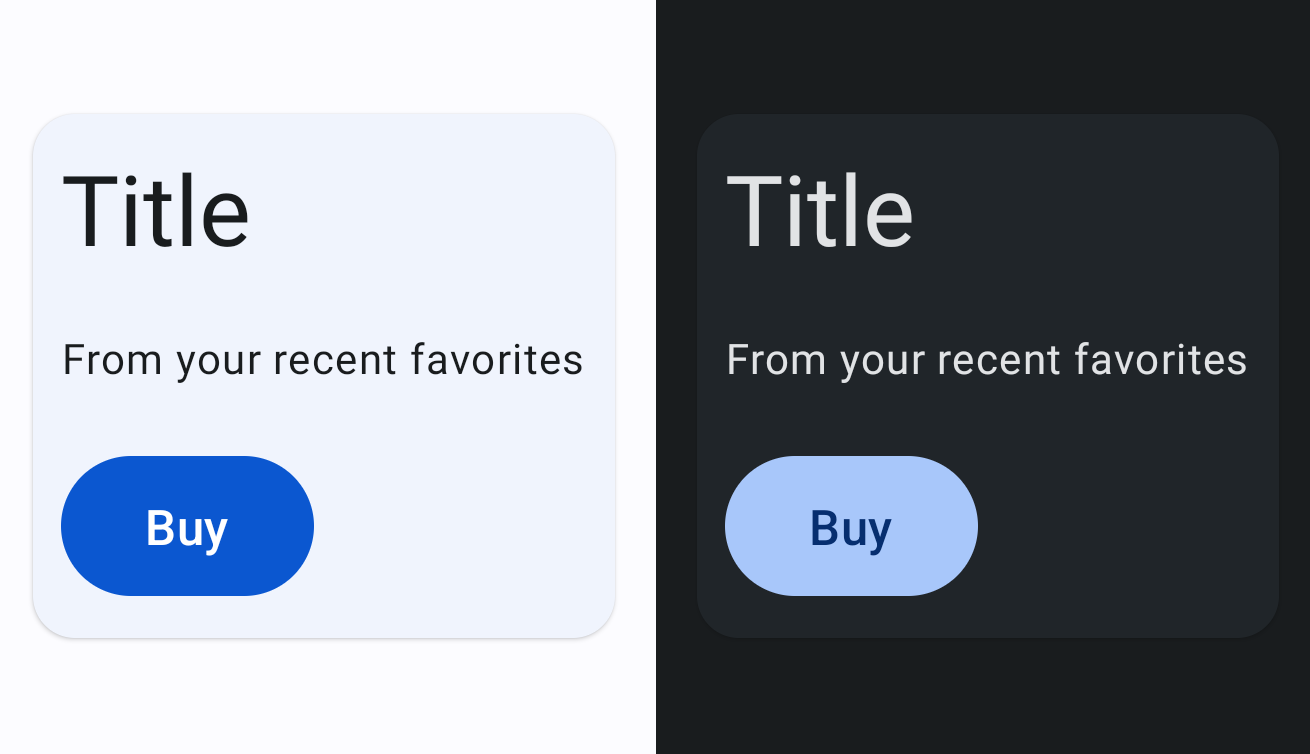
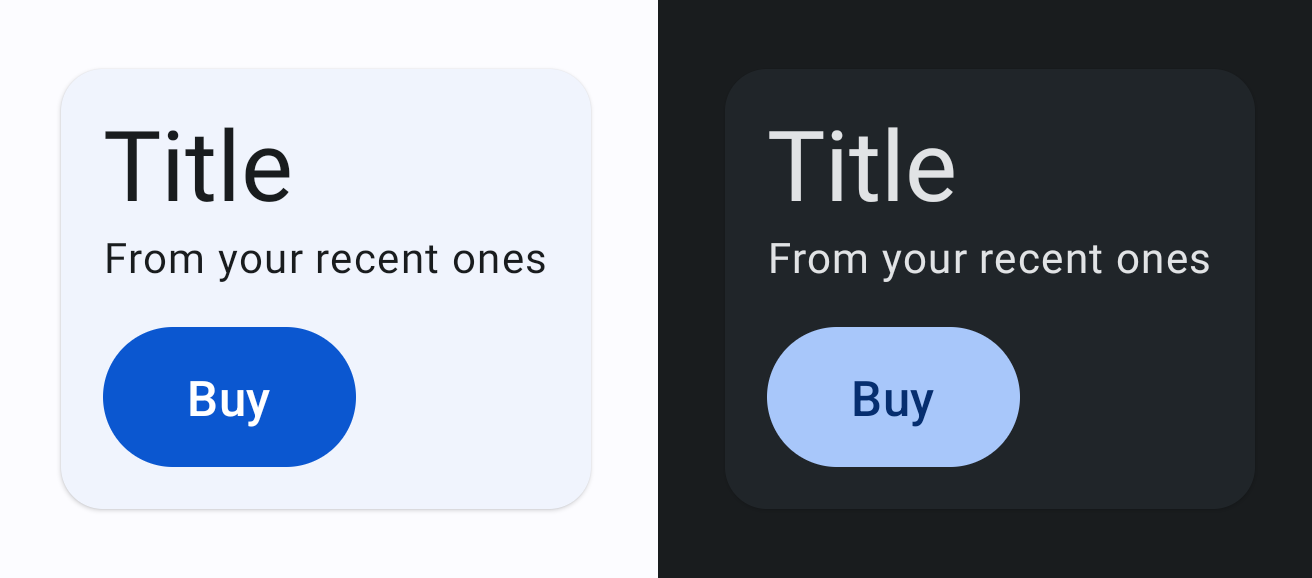
Fix Elevated Card

diff --git a/app/src/main/java/com/ivyapps/material3showcase/component/cards/ElevatedCard.kt b/app/src/main/java/com/ivyapps/material3showcase/component/cards/ElevatedCard.kt
@@ -1,5 +1,8 @@
 package com.ivyapps.material3showcase.component.cards
 
+import androidx.compose.foundation.layout.Column
+import androidx.compose.foundation.layout.Spacer
+import androidx.compose.foundation.layout.height
 import androidx.compose.foundation.layout.padding
 import androidx.compose.foundation.shape.RoundedCornerShape
 import androidx.compose.material3.Button
@@ -14,8 +17,8 @@ import com.airbnb.android.showkase.annotation.ShowkaseComposable
 import com.ivyapps.material3showcase.component.ComponentPreview
 import com.ivyapps.material3showcase.component.ShowcasePreview
 
-private const val width = 420
-private const val height = 220
+private const val width = 520
+private const val height = 170
 
 @ComponentPreview
 @ShowkaseComposable(
@@ -28,25 +31,28 @@ private const val height = 220
 fun ElevatedCardDefault() {
     ShowcasePreview(width = width, height = height) {
         ElevatedCard {
-            Text(
-                modifier = Modifier.padding(8.dp),
-                text = "Title",
-                style = MaterialTheme.typography.headlineMedium
-            )
-
-            Text(
-                modifier = Modifier.padding(8.dp),
-                text = "From your recent favorites",
-                style = MaterialTheme.typography.bodySmall
-            )
-
-            Button(
-                modifier = Modifier.padding(8.dp),
-                onClick = {
-                    /* Do something! */
-                }
+            Column(
+                modifier = Modifier.padding(horizontal = 12.dp, vertical = 8.dp)
             ) {
-                Text("Buy")
+                Text(
+                    text = "Title",
+                    style = MaterialTheme.typography.headlineMedium
+                )
+
+                Text(
+                    text = "From your recent ones",
+                    style = MaterialTheme.typography.bodySmall
+                )
+
+                Spacer(modifier = Modifier.height(8.dp))
+
+                Button(
+                    onClick = {
+                        /* Do something! */
+                    }
+                ) {
+                    Text("Buy")
+                }
             }
         }
     }
@@ -73,25 +79,28 @@ fun ElevatedCardCustom() {
             ),
             elevation = CardDefaults.cardElevation(1.dp)
         ) {
-            Text(
-                modifier = Modifier.padding(8.dp),
-                text = "Title",
-                style = MaterialTheme.typography.headlineMedium
-            )
-
-            Text(
-                modifier = Modifier.padding(8.dp),
-                text = "From your recent favorites",
-                style = MaterialTheme.typography.bodySmall
-            )
-
-            Button(
-                modifier = Modifier.padding(8.dp),
-                onClick = {
-                    /* Do something! */
-                }
+            Column(
+                modifier = Modifier.padding(horizontal = 12.dp, vertical = 8.dp)
             ) {
-                Text("Buy")
+                Text(
+                    text = "Title",
+                    style = MaterialTheme.typography.headlineMedium
+                )
+
+                Text(
+                    text = "From your recent ones",
+                    style = MaterialTheme.typography.bodySmall
+                )
+
+                Spacer(modifier = Modifier.height(8.dp))
+
+                Button(
+                    onClick = {
+                        /* Do something! */
+                    }
+                ) {
+                    Text("Buy")
+                }
             }
         }
     }

diff --git a/app/src/main/java/com/ivyapps/material3showcase/component/cards/OutlinedCard.kt b/app/src/main/java/com/ivyapps/material3showcase/component/cards/OutlinedCard.kt
@@ -1,0 +1,99 @@
+package com.ivyapps.material3showcase.component.cards
+
+import androidx.compose.foundation.BorderStroke
+import androidx.compose.foundation.layout.padding
+import androidx.compose.foundation.shape.RoundedCornerShape
+import androidx.compose.material3.Button
+import androidx.compose.material3.CardDefaults
+import androidx.compose.material3.MaterialTheme
+import androidx.compose.material3.OutlinedCard
+import androidx.compose.material3.Text
+import androidx.compose.runtime.Composable
+import androidx.compose.ui.Modifier
+import androidx.compose.ui.unit.dp
+import com.airbnb.android.showkase.annotation.ShowkaseComposable
+import com.ivyapps.material3showcase.component.ComponentPreview
+import com.ivyapps.material3showcase.component.ShowcasePreview
+
+private const val width = 420
+private const val height = 220
+
+@ComponentPreview
+@ShowkaseComposable(
+    name = "Default",
+    group = "Outlined Card",
+    widthDp = width,
+    heightDp = height,
+)
+@Composable
+fun OutlinedCardDefault() {
+    ShowcasePreview(width = width, height = height) {
+        OutlinedCard {
+            Text(
+                modifier = Modifier.padding(16.dp),
+                text = "Title",
+                style = MaterialTheme.typography.headlineMedium
+            )
+
+            Text(
+                modifier = Modifier.padding(16.dp),
+                text = "From your recent favorites",
+                style = MaterialTheme.typography.bodySmall
+            )
+
+            Button(
+                modifier = Modifier.padding(16.dp),
+                onClick = {
+                    /* Do something! */
+                }
+            ) {
+                Text("Buy")
+            }
+        }
+    }
+}
+
+@ComponentPreview
+@ShowkaseComposable(
+    name = "Custom",
+    group = "Outlined Card",
+    widthDp = width,
+    heightDp = height,
+)
+@Composable
+fun OutlinedCardCustom() {
+    ShowcasePreview(width = width, height = height) {
+        OutlinedCard(
+            modifier = Modifier,
+            shape = RoundedCornerShape(12.dp),
+            colors = CardDefaults.outlinedCardColors(
+                containerColor = MaterialTheme.colorScheme.background,
+                contentColor = MaterialTheme.colorScheme.onBackground,
+                disabledContainerColor = MaterialTheme.colorScheme.background,
+                disabledContentColor = MaterialTheme.colorScheme.onBackground
+            ),
+            border = BorderStroke(1.dp, MaterialTheme.colorScheme.onBackground)
+        ) {
+            Text(
+                modifier = Modifier.padding(8.dp),
+                text = "Title",
+                style = MaterialTheme.typography.headlineMedium
+            )
+
+            Text(
+                modifier = Modifier.padding(8.dp),
+                text = "From your recent favorites",
+                style = MaterialTheme.typography.bodySmall
+            )
+
+            Button(
+                modifier = Modifier.padding(8.dp),
+                onClick = {
+                    /* Do something! */
+                }
+            ) {
+                Text("Buy")
+            }
+        }
+    }
+}
